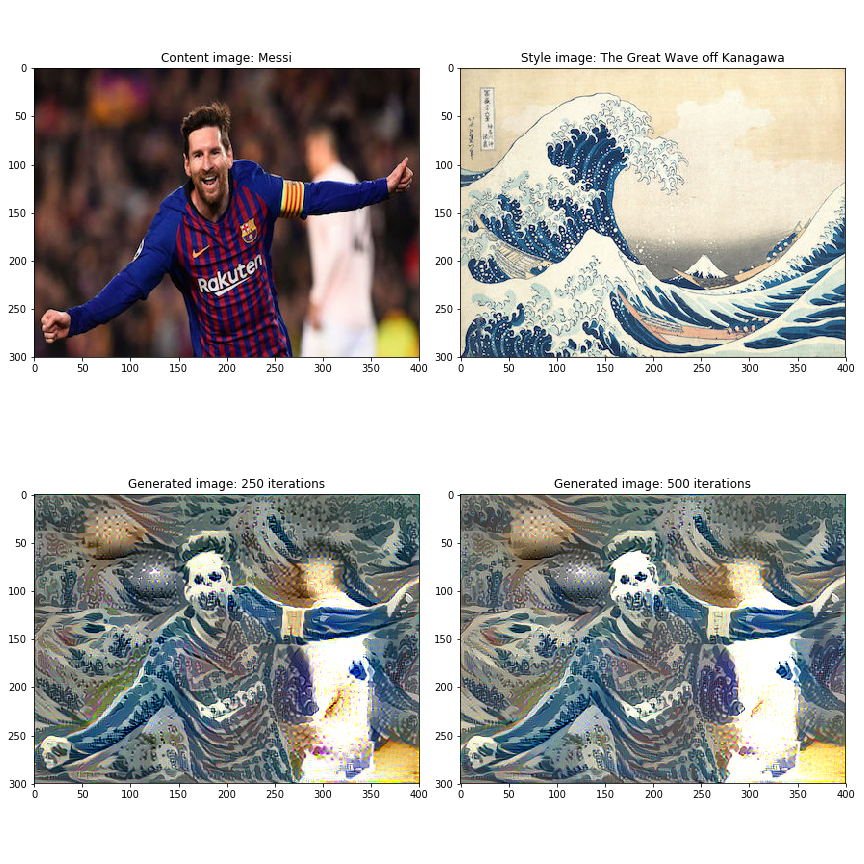
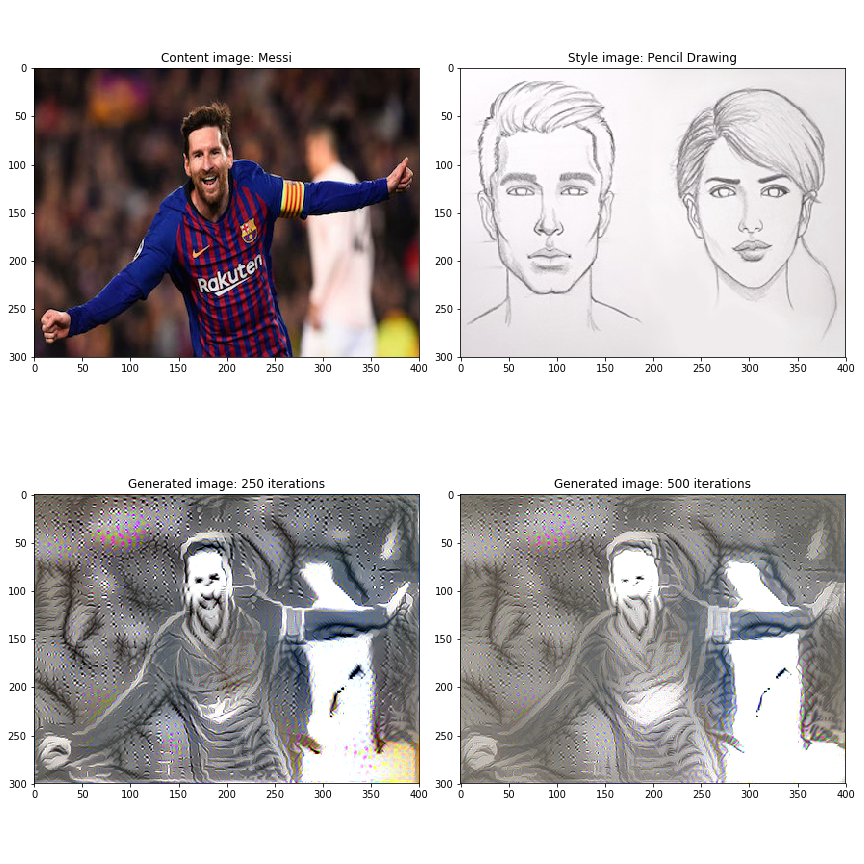
Add new style image

diff --git a/README.md b/README.md
@@ -28,8 +28,6 @@ I loved implementing applications brining one step closer to safe autonomous dri
 <img src="https://github.com/georgezoto/Convolutional-Neural-Networks/blob/master/images/Convolutional-Neural-Networks-2.jpg">
 </p>
 
-![alt text](images/Convolutional-Neural-Networks-2.jpg)
-
 ![alt text](images/Convolutional-Neural-Networks-3.png)
 
 ![alt text](images/Convolutional-Neural-Networks-4.png)
